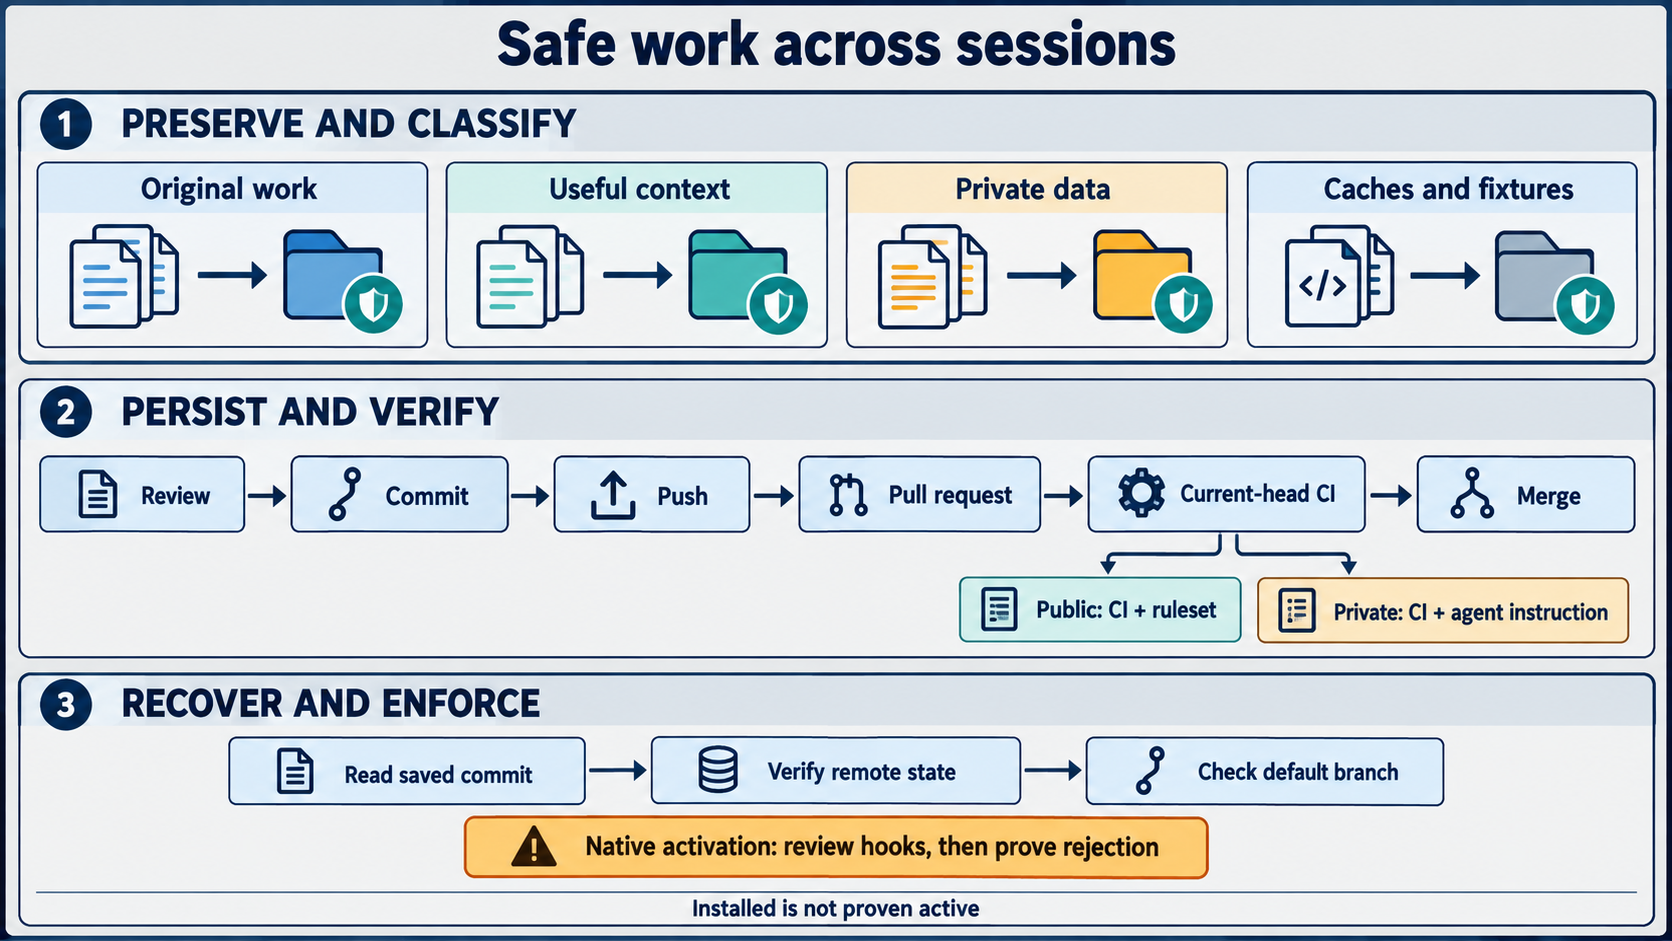
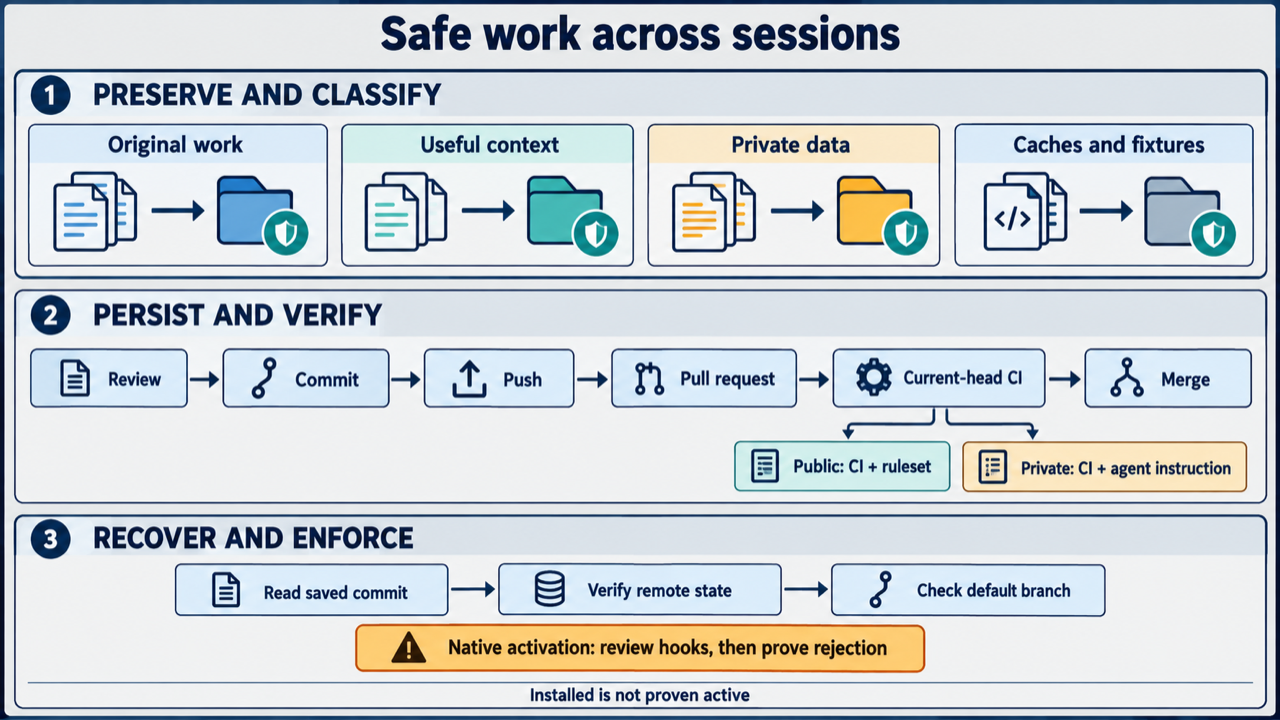
ci: run every frozen development check without training dependencies

diff --git a/README.md b/README.md
@@ -29,7 +29,8 @@ uv run ruff check .
 ```
 
 The `stable-ci` job runs on every pull request and push to `main` with Python 3.13.
-It uses Ruff 0.15.12 from `uv.lock`, compiles the sources, and runs the palindrome examples.
+It installs the frozen development group and runs every configured repository check, source compilation, and the palindrome examples.
+`UV_NO_SYNC=1` keeps nested hook commands in that development environment after the explicit installation step.
 The job rejects a failed example even though the current example runner exits successfully on a mismatch.
 It does not install NumPy or PyTorch, run training, or validate those implementations at runtime.
 
